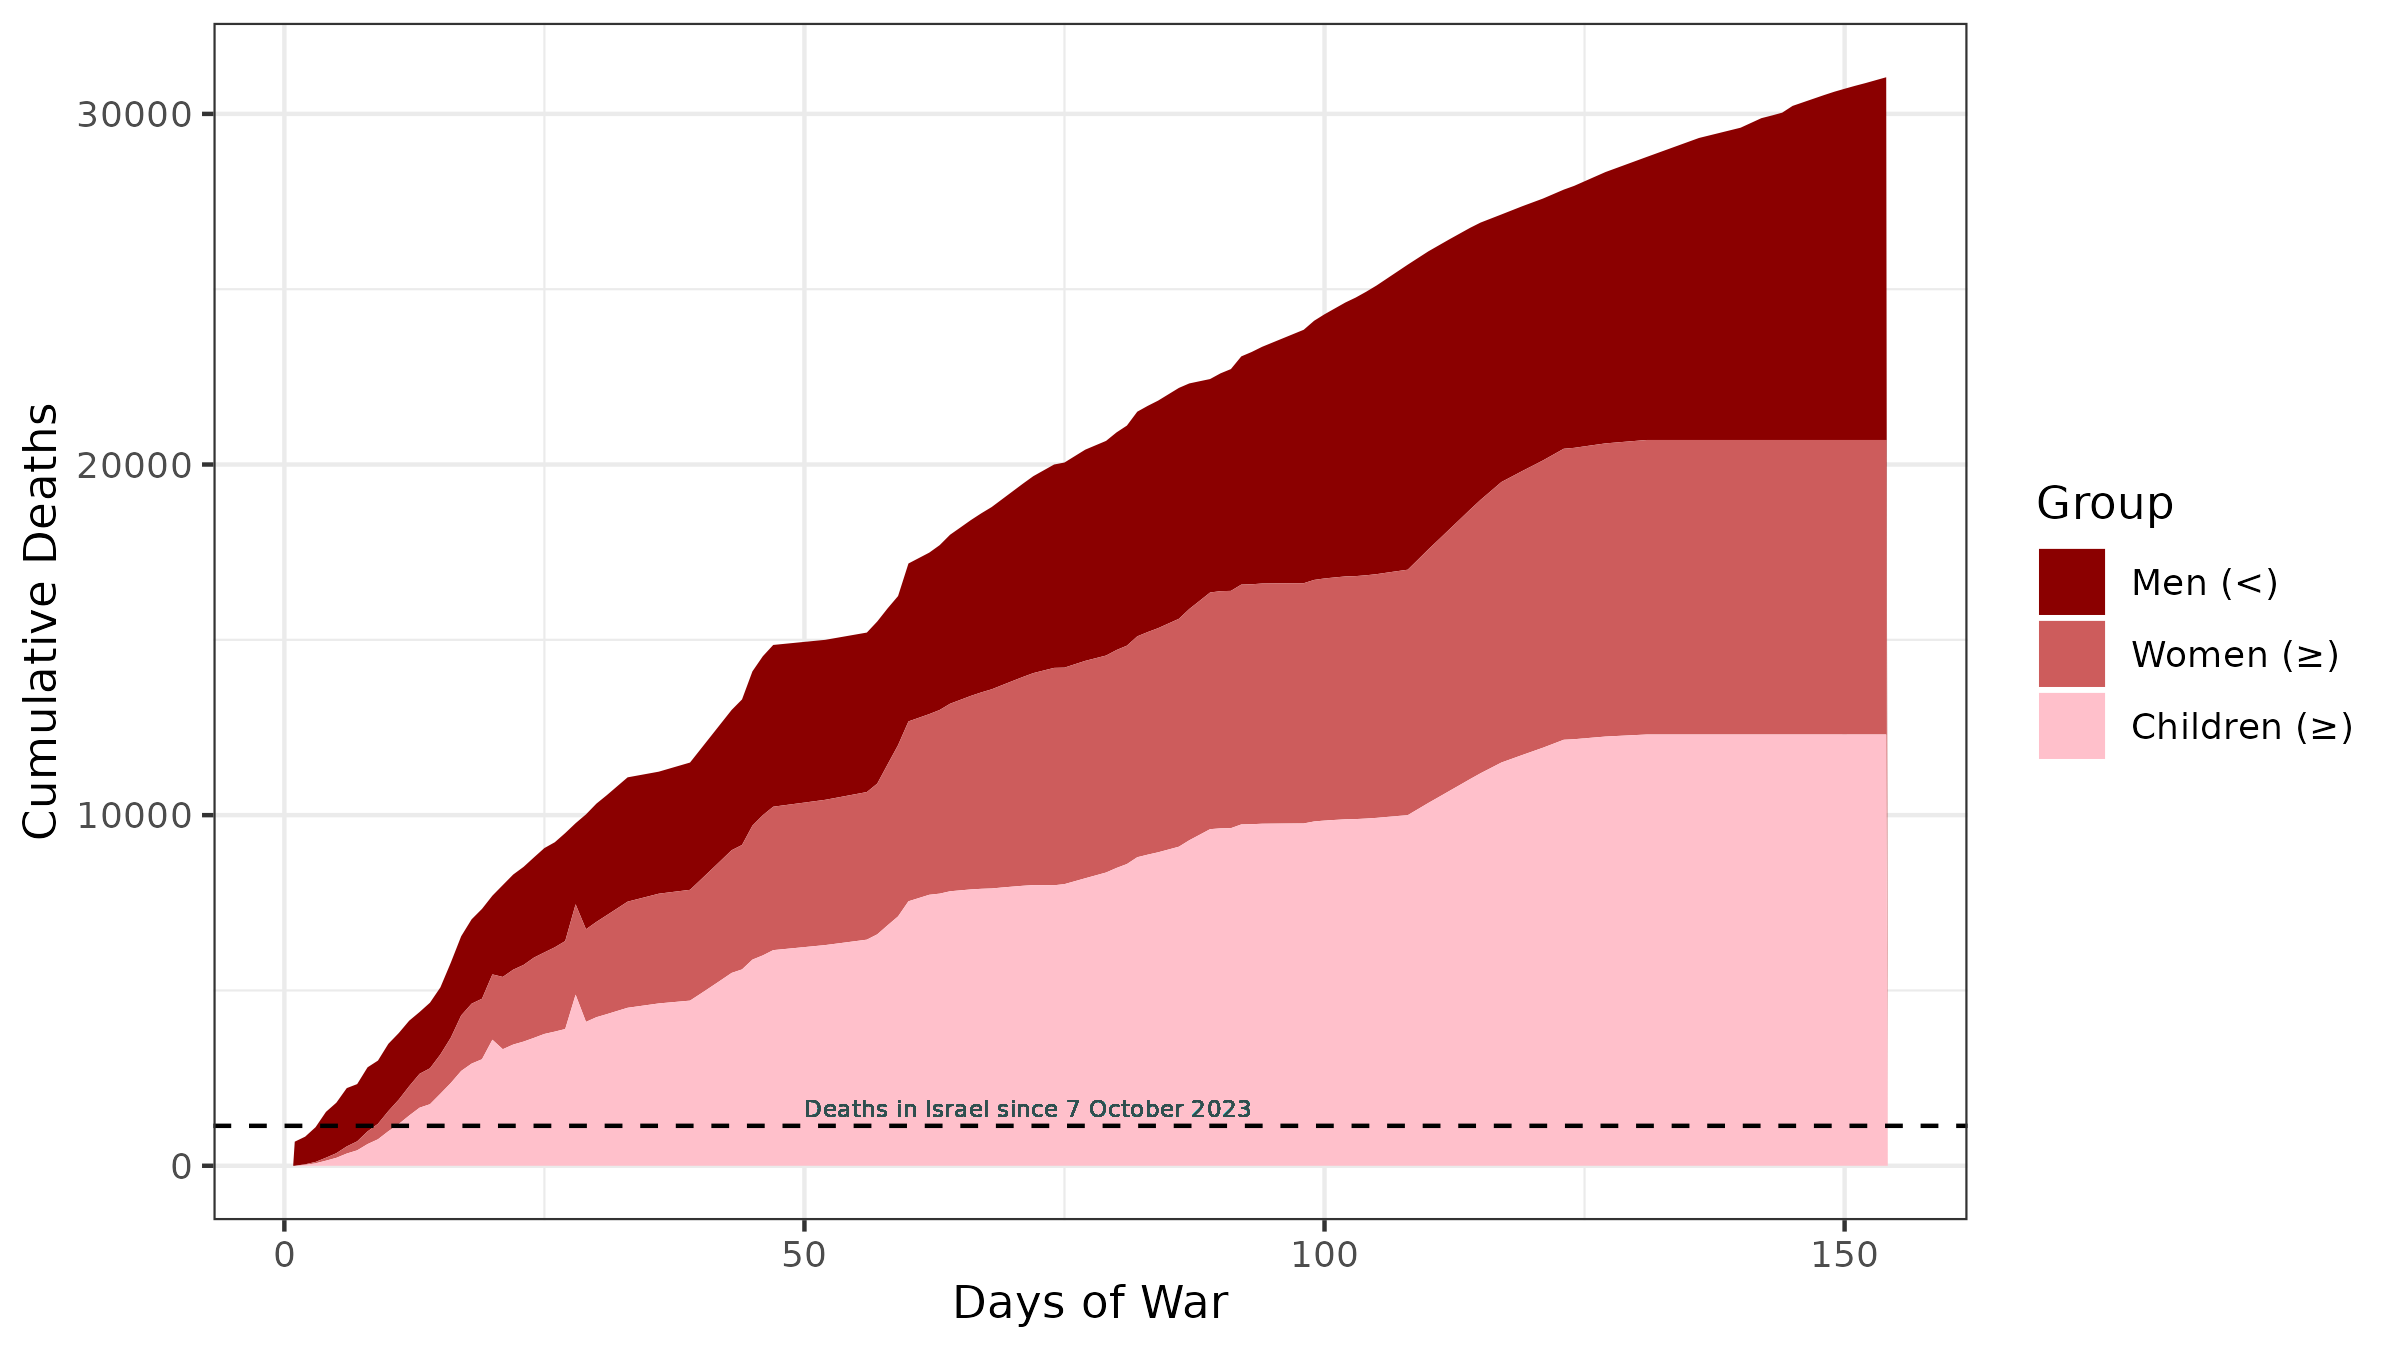
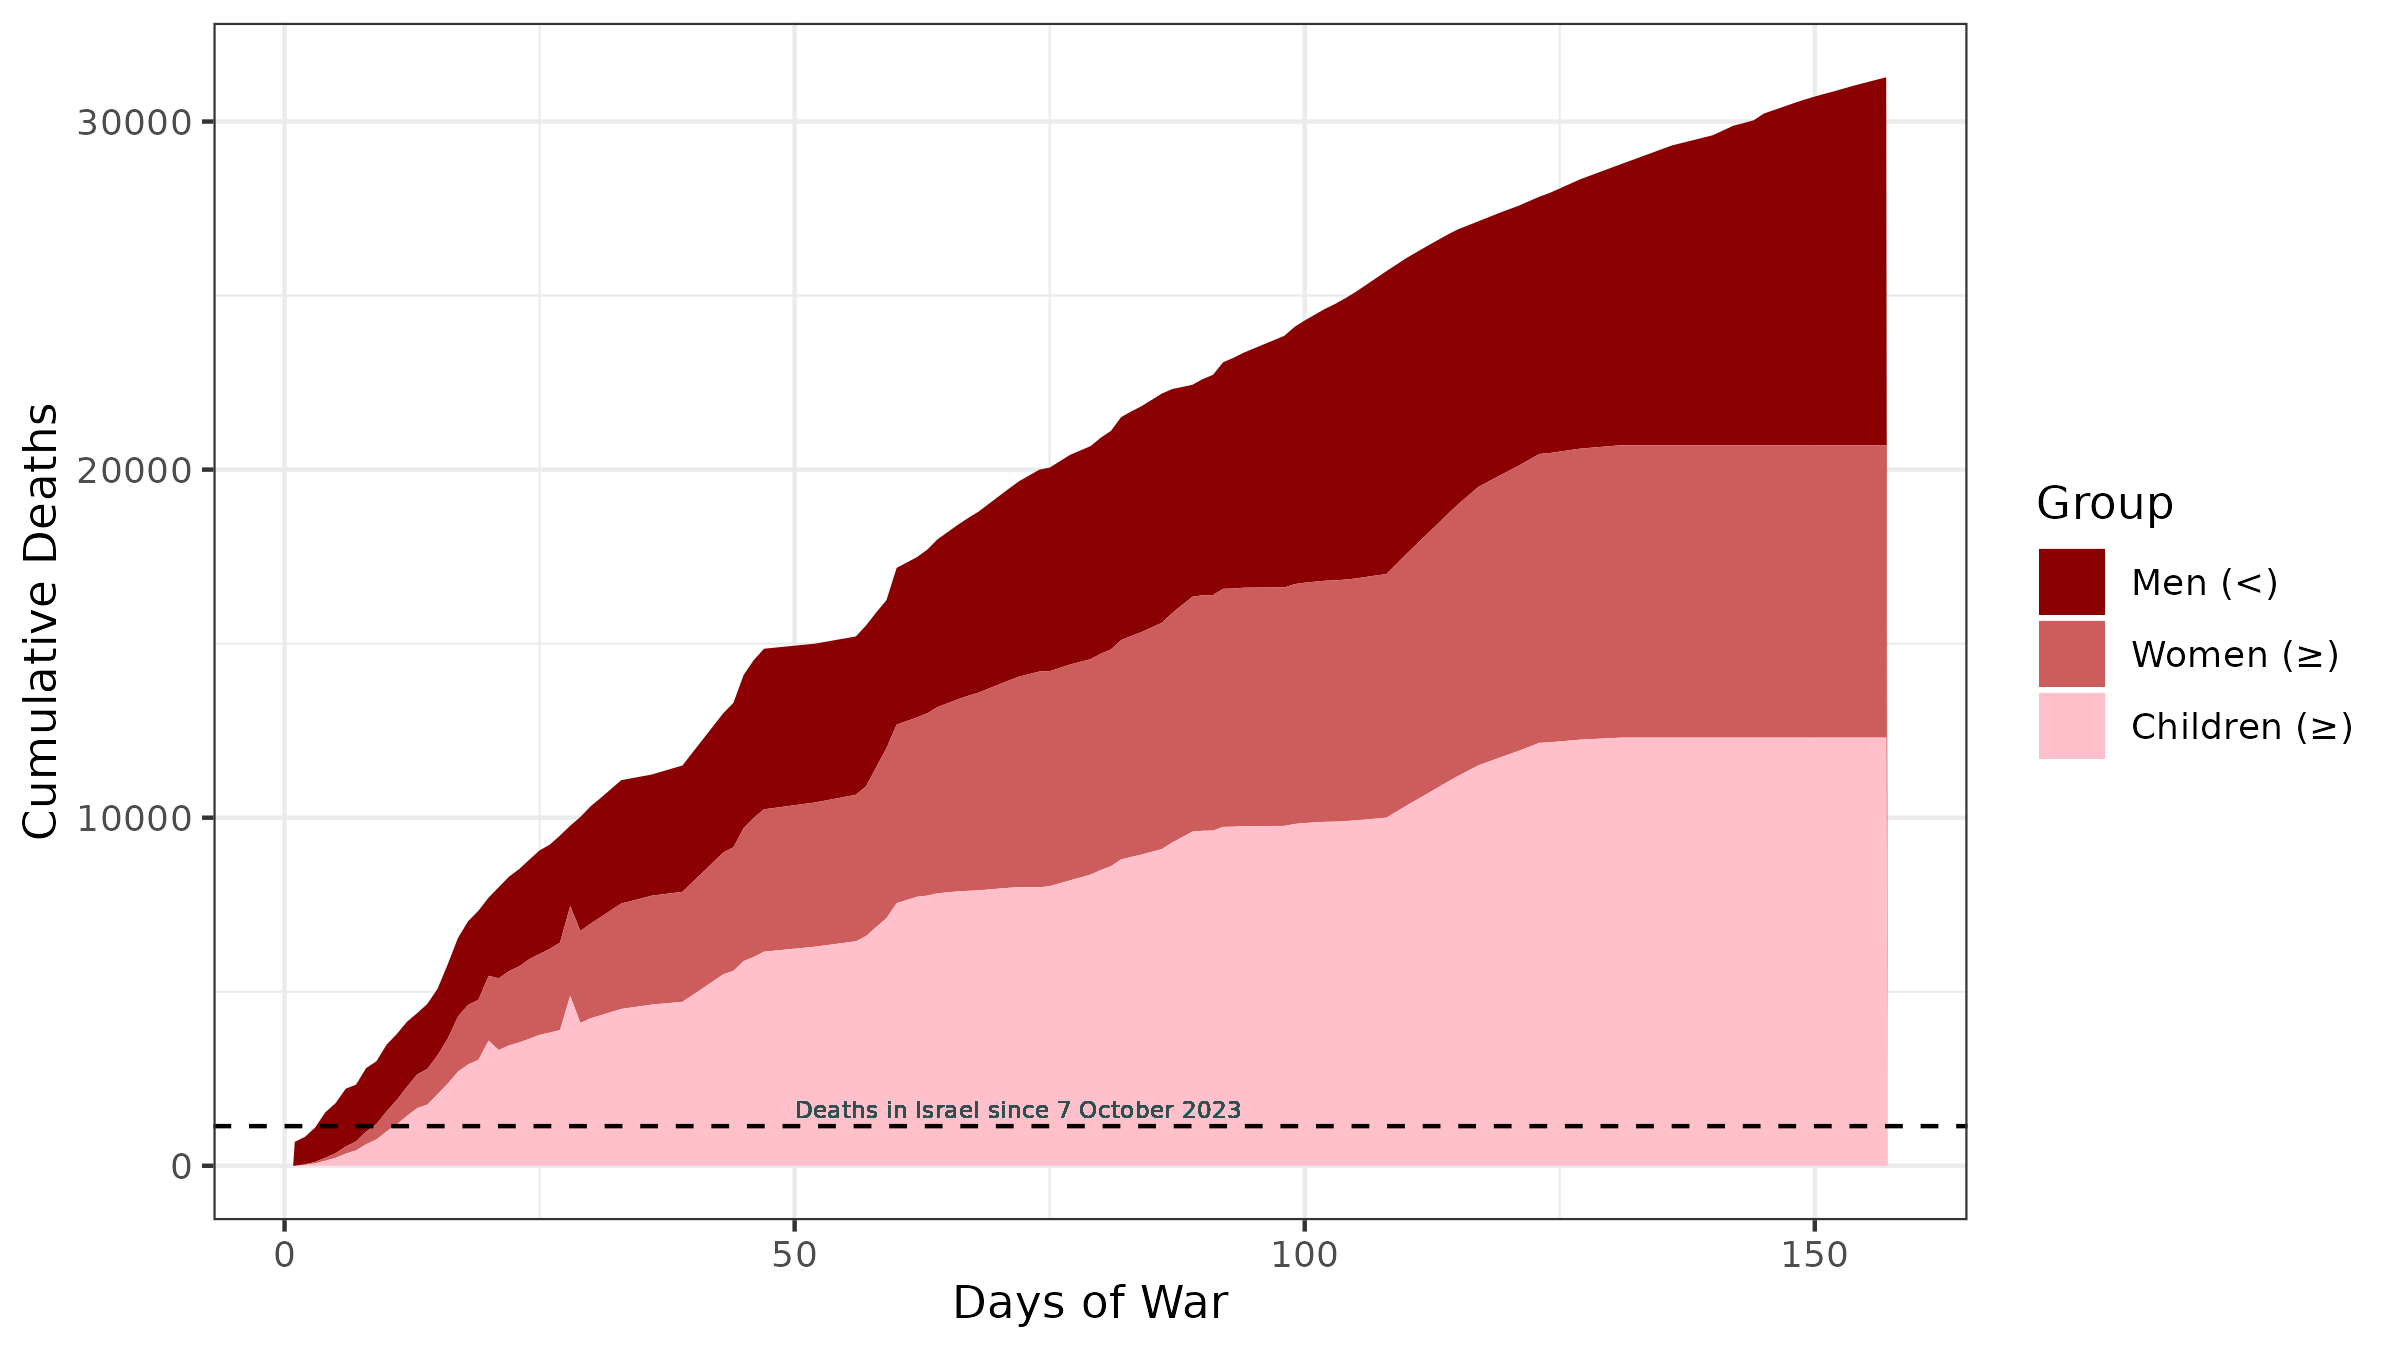
Updated 13 March 2024

diff --git a/README.md b/README.md
@@ -1,5 +1,5 @@
 Tracking mortality in Palestine following Israel's assault against Gaza (2023-2024). 
-*Last updated 10 March 2024*
+*Last updated 13 March 2024*
 
 # Gaza Conflict Tracker
 
